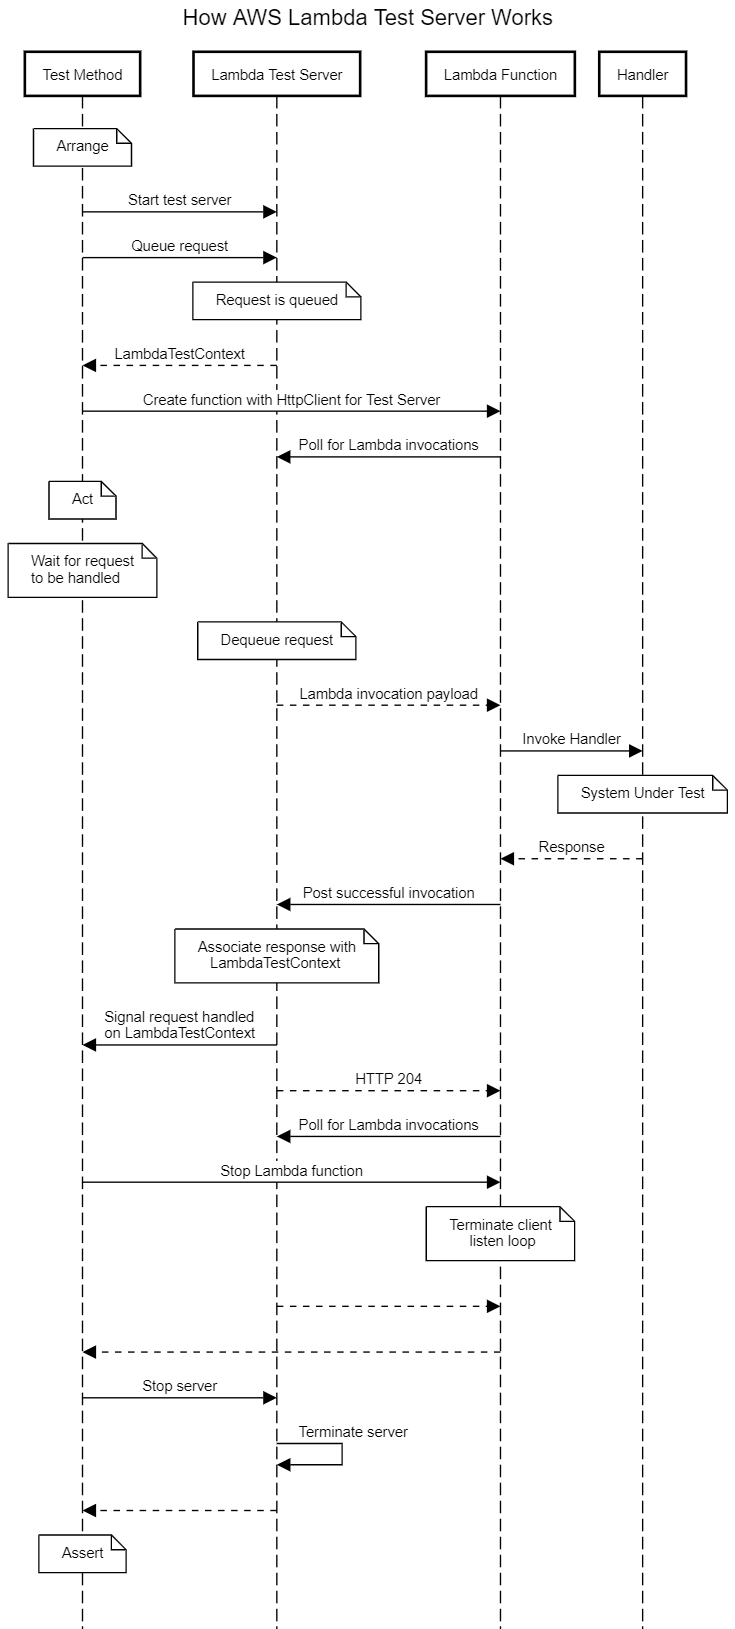
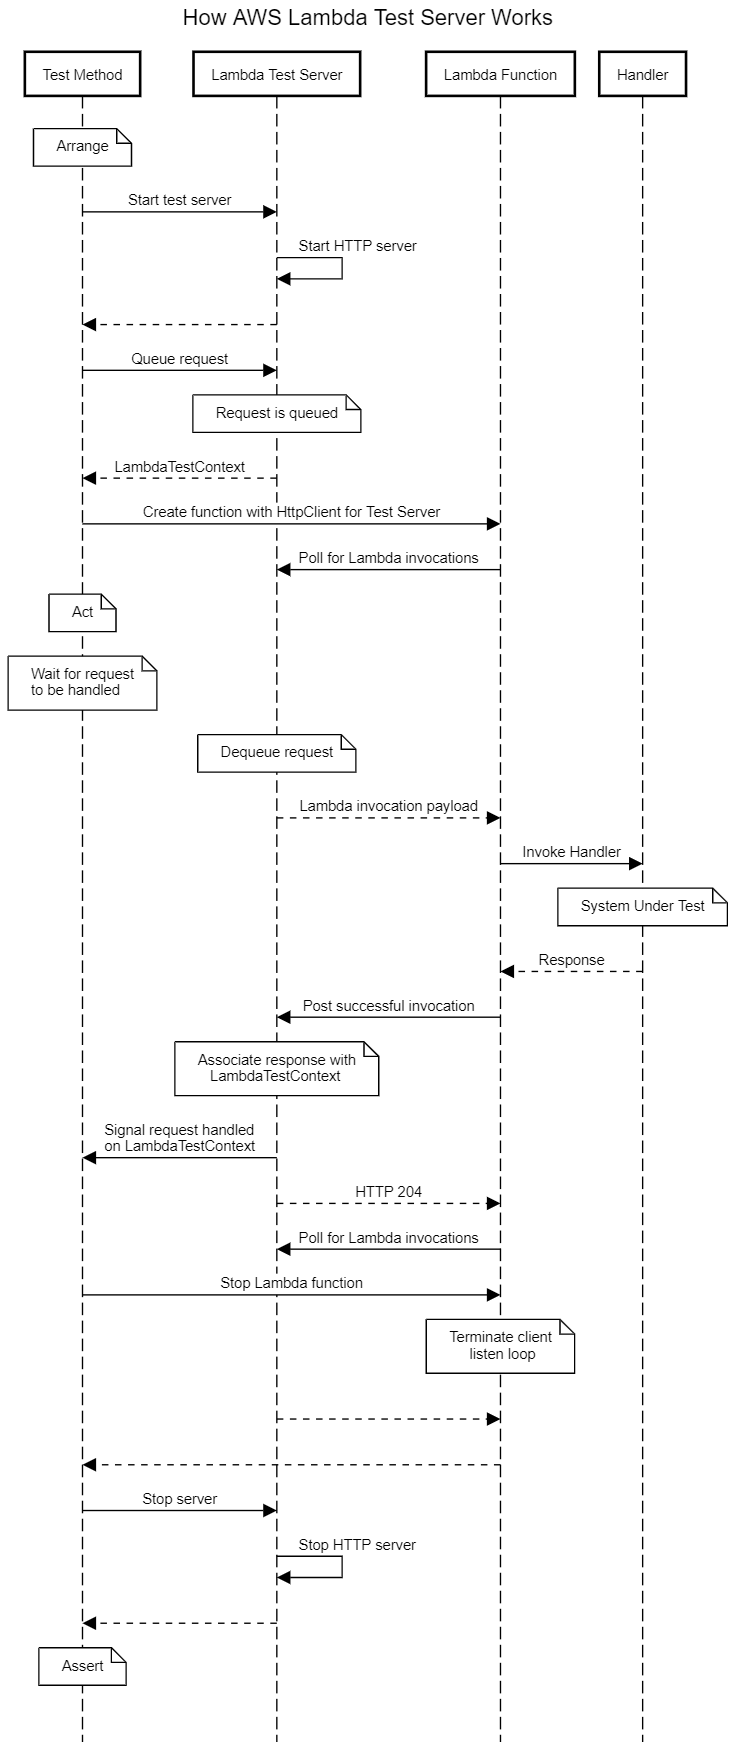
Show server start
Show where the HTTP server is started.

diff --git a/README.md b/README.md
@@ -138,6 +138,10 @@ note over Test Method:Arrange
 
 Test Method->Lambda Test Server:Start test server
 
+Lambda Test Server->Lambda Test Server:Start HTTP server
+
+Test Method<--Lambda Test Server:
+
 Test Method->Lambda Test Server:Queue request
 
 note over Lambda Test Server:Request is queued
@@ -182,7 +186,7 @@ Test Method<--Lambda Function:
 
 Test Method->Lambda Test Server:Stop server
 
-Lambda Test Server->Lambda Test Server:Terminate server
+Lambda Test Server->Lambda Test Server:Stop HTTP server
 
 Test Method<--Lambda Test Server:
 
